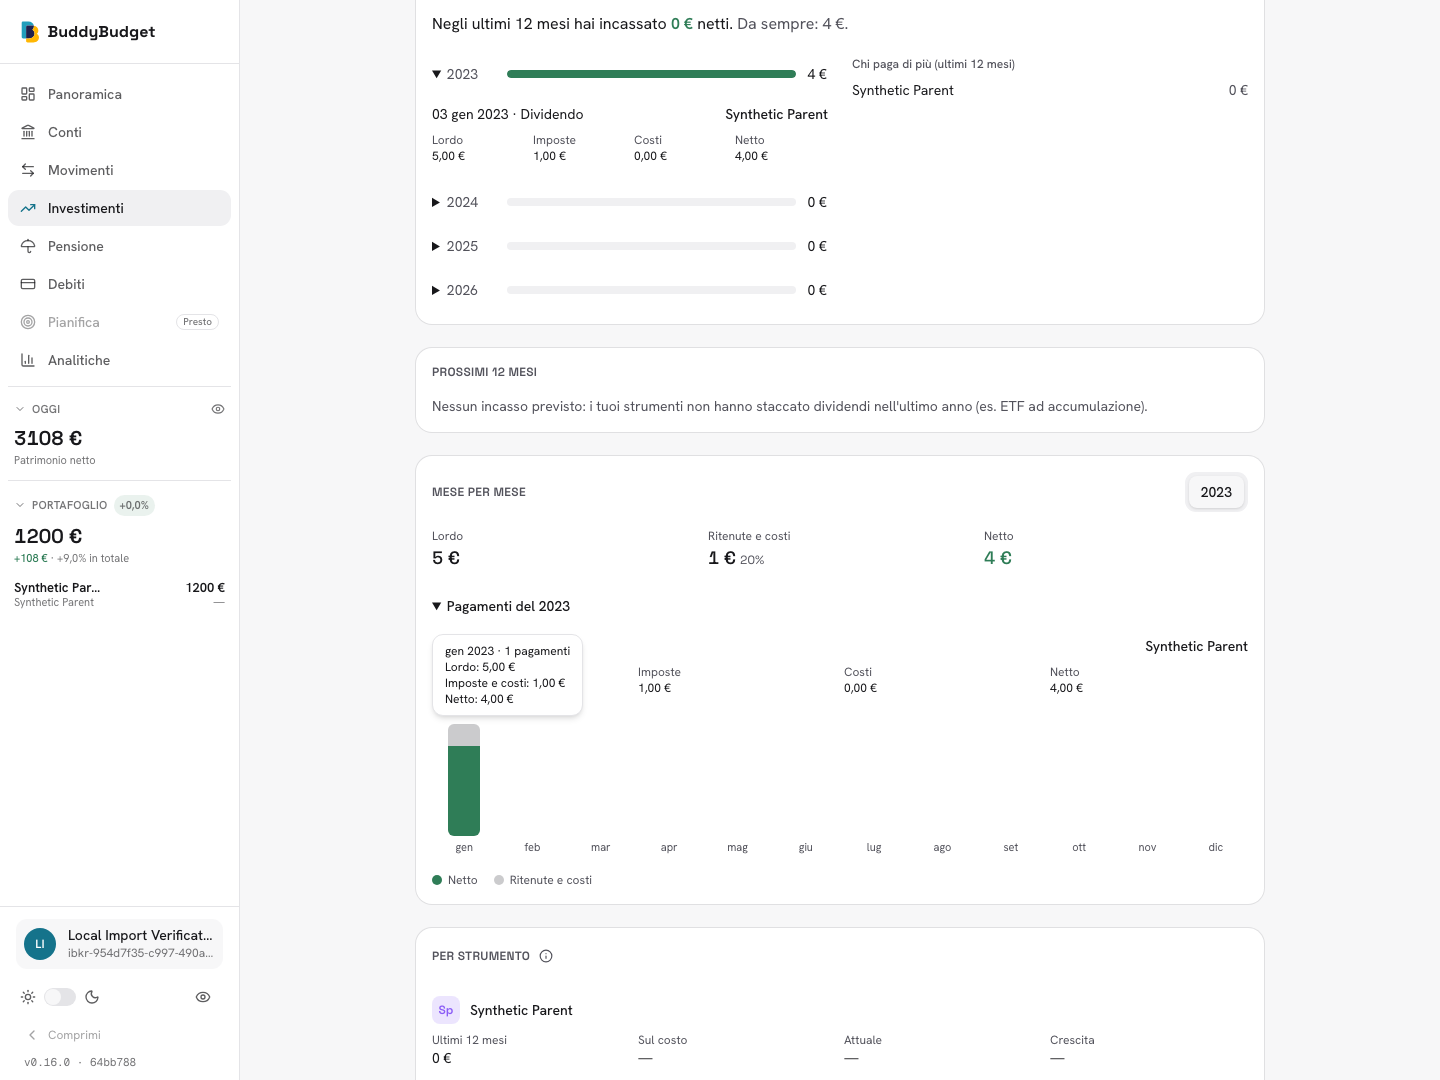
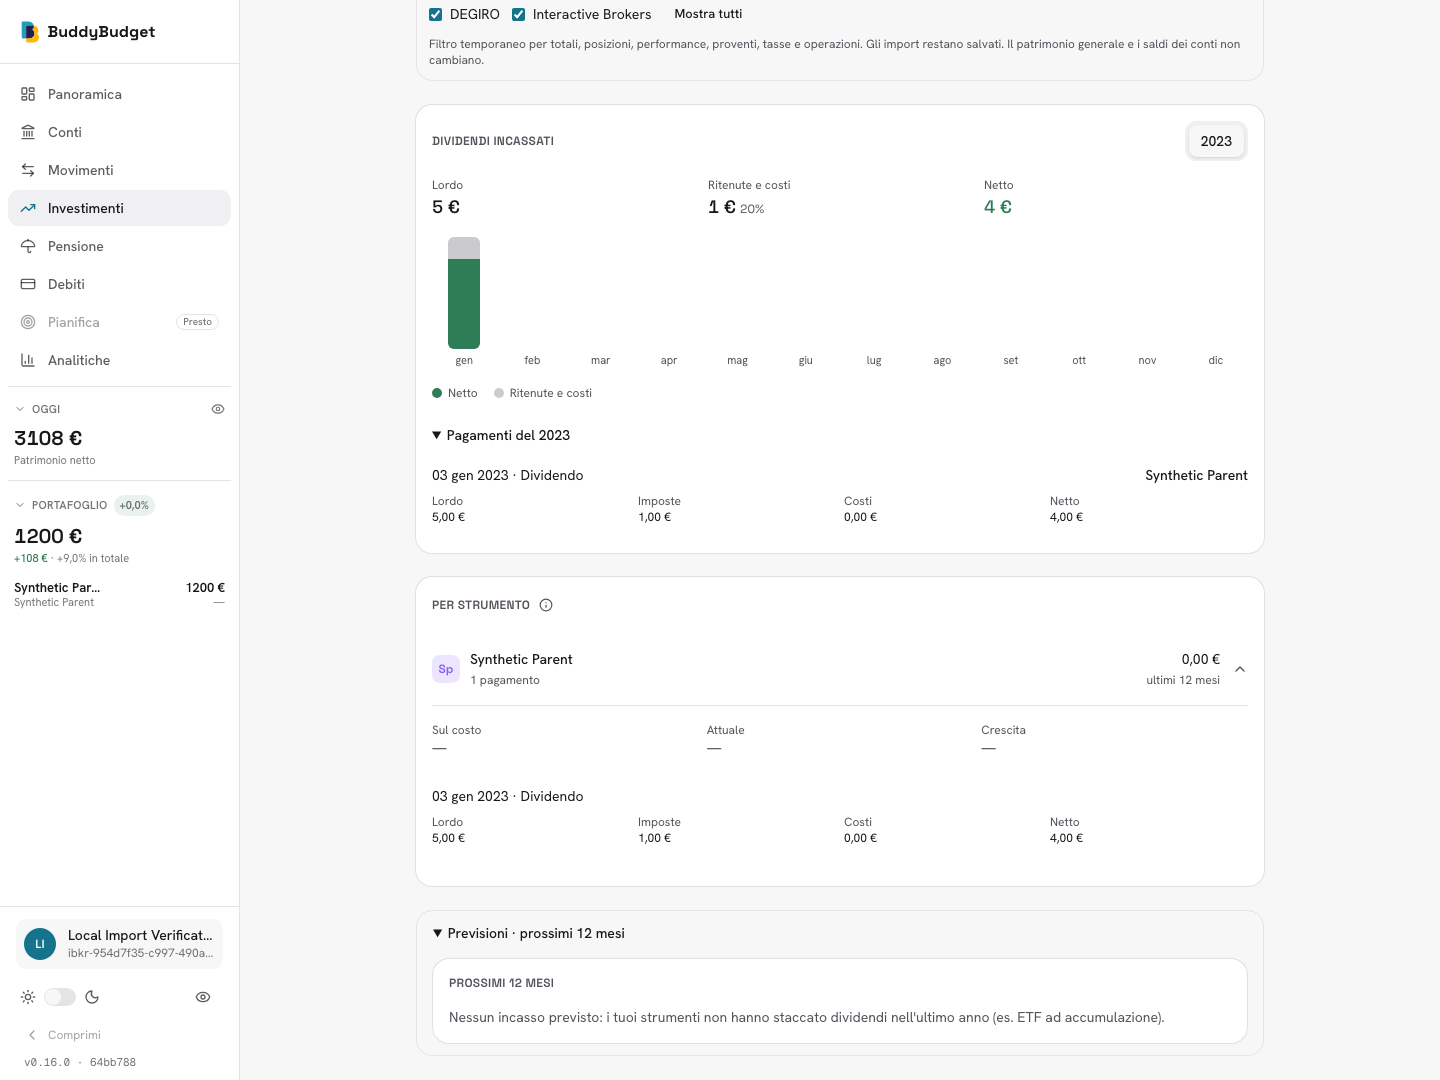
fix: simplify dividend page and remove redundant overview

diff --git a/components/domain/investments/income/income-instruments-card.tsx b/components/domain/investments/income/income-instruments-card.tsx
@@ -5,6 +5,7 @@
  * oggi), crescita del dividendo per quota negli ultimi anni. Per le obbligazioni, tasso e scadenza delle cedole.
  */
 
+import { ChevronDown } from "lucide-react";
 import { IncomePayments } from "./income-payments";
 import type { IncomePayment } from "@/lib/investments/income";
 import { track } from "@/lib/analytics";
@@ -52,28 +53,32 @@ export function IncomeInstrumentsCard({ rows, payments, instrumentsById, currenc
             const instrument = instrumentsById.get(row.instrumentId);
             if (!instrument) return null;
             const isBond = instrument.type === "obbligazione";
+            const instrumentPayments = payments.filter((payment) => payment.instrumentId === row.instrumentId);
             return (
-              <li key={row.instrumentId} className="flex flex-col gap-2 py-3">
-                <div className="flex items-center justify-between gap-3">
-                  <span className="flex min-w-0 items-center gap-2.5">
-                    <InstrumentIcon type={instrument.type} name={instrument.name} instrumentId={instrument.id} size="sm" />
-                    <span className="truncate text-sm font-medium text-foreground">{instrument.name}</span>
-                  </span>
-                  {isBond ? (
-                    <Button variant="outline" size="sm" onClick={() => onEditCoupons(instrument)}>
-                      {row.hasCouponTerms ? "Cedole" : "Inserisci cedole"}
-                    </Button>
-                  ) : null}
-                </div>
-                <dl className="grid grid-cols-2 gap-2 text-sm sm:grid-cols-4">
-                  <Metric label="Ultimi 12 mesi" value={formatCurrency(row.trailingNet, currency, { maximumFractionDigits: 0 })} />
-                  <Metric label="Sul costo" value={row.yieldOnCost !== null && row.trailingNet > 0 ? formatPct(row.yieldOnCost) : "—"} />
-                  <Metric label="Attuale" value={row.currentYield !== null && row.forecastGross > 0 ? formatPct(row.currentYield) : "—"} />
-                  <Metric label="Crescita" value={row.growth ? `${formatSignedPct(row.growth.rate)}/anno` : "—"} />
-                </dl>
-                <details onToggle={(event) => { if (event.currentTarget.open) track("investment_dividends_details_opened", { source: "instrument" }); }}>
-                  <summary className="cursor-pointer py-2 text-sm font-medium">Pagamenti di {instrument.name} ({payments.filter((payment) => payment.instrumentId === row.instrumentId).length})</summary>
-                  <IncomePayments payments={payments.filter((payment) => payment.instrumentId === row.instrumentId)} currency={currency} />
+              <li key={row.instrumentId}>
+                <details className="group" onToggle={(event) => { if (event.currentTarget.open) track("investment_dividends_details_opened", { source: "instrument" }); }}>
+                  <summary className="flex cursor-pointer list-none items-center justify-between gap-3 rounded-md py-4 focus-visible:outline-2">
+                    <span className="flex min-w-0 items-center gap-2.5">
+                      <InstrumentIcon type={instrument.type} name={instrument.name} instrumentId={instrument.id} size="sm" />
+                      <span className="min-w-0">
+                        <span className="block truncate text-sm font-medium">{instrument.name}</span>
+                        <span className="text-xs text-muted-foreground">{instrumentPayments.length} {instrumentPayments.length === 1 ? "pagamento" : "pagamenti"}</span>
+                      </span>
+                    </span>
+                    <span className="flex shrink-0 items-center gap-3">
+                      <span className="text-right"><span className="block text-sm tabular-nums">{formatCurrency(row.trailingNet, currency)}</span><span className="text-xs text-muted-foreground">ultimi 12 mesi</span></span>
+                      <ChevronDown className="size-4 text-muted-foreground transition-transform group-open:rotate-180" aria-hidden="true" />
+                    </span>
+                  </summary>
+                  <div className="space-y-4 border-t pb-3 pt-4">
+                    <dl className="grid grid-cols-3 gap-2 text-sm">
+                      <Metric label="Sul costo" value={row.yieldOnCost !== null && row.trailingNet > 0 ? formatPct(row.yieldOnCost) : "—"} />
+                      <Metric label="Attuale" value={row.currentYield !== null && row.forecastGross > 0 ? formatPct(row.currentYield) : "—"} />
+                      <Metric label="Crescita" value={row.growth ? `${formatSignedPct(row.growth.rate)}/anno` : "—"} />
+                    </dl>
+                    {isBond ? <Button variant="outline" size="sm" onClick={() => onEditCoupons(instrument)}>{row.hasCouponTerms ? "Cedole" : "Inserisci cedole"}</Button> : null}
+                    <IncomePayments payments={instrumentPayments} currency={currency} />
+                  </div>
                 </details>
               </li>
             );

diff --git a/app/(app)/investimenti/proventi/page.tsx b/app/(app)/investimenti/proventi/page.tsx
@@ -10,7 +10,6 @@ import { useFilteredInvestmentsOverview } from "@/lib/queries/investments-view";
 import { toast } from "sonner";
 import {
   IncomeForecastCard,
-  IncomeHistoryCard,
   IncomeInstrumentsCard,
   IncomeMonthsCard,
   InstrumentSettingsDialog,
@@ -98,24 +97,34 @@ export default function DividendiPage() {
           Scarico lo storico dei dividendi di {pending === 1 ? "uno strumento" : `${pending} strumenti`}…
         </p>
       ) : null}
-      {view.history.count > 0 ? <IncomeHistoryCard income={view.history} instrumentsById={view.instrumentsById} currency={currency} /> : null}
-      {view.missing.length > 0 ? (
-        <MissingIncomeCard
-          missing={view.missing}
-          instrumentsById={view.instrumentsById}
-          currency={currency}
-          onRegister={register}
-          onDismiss={(item) => ignore([item])}
-          onDismissOld={ignore}
-          dismissingKey={dismissingKey}
-          todayKey={view.todayKey}
-        />
-      ) : null}
-      <IncomeForecastCard forecast={view.forecast} instrumentsById={view.instrumentsById} currency={currency} onEditCoupons={setCouponsFor} />
       {view.byMonth.length > 0 ? <IncomeMonthsCard payments={view.history.payments} instrumentsById={view.instrumentsById} years={view.byMonth} currency={currency} /> : null}
       {view.byInstrument.length > 0 ? (
         <IncomeInstrumentsCard payments={view.history.payments} rows={view.byInstrument} instrumentsById={view.instrumentsById} currency={currency} onEditCoupons={setCouponsFor} />
       ) : null}
+      {view.byMonth.length === 0 ? <p className="rounded-xl border border-dashed p-6 text-sm text-muted-foreground">Nessun dividendo o cedola registrato.</p> : null}
+      {view.missing.length > 0 ? (
+        <details className="rounded-xl border px-4 py-3">
+          <summary className="cursor-pointer text-sm font-medium">Da registrare ({view.missing.length})</summary>
+          <div className="pt-4">
+            <MissingIncomeCard
+              missing={view.missing}
+              instrumentsById={view.instrumentsById}
+              currency={currency}
+              onRegister={register}
+              onDismiss={(item) => ignore([item])}
+              onDismissOld={ignore}
+              dismissingKey={dismissingKey}
+              todayKey={view.todayKey}
+            />
+          </div>
+        </details>
+      ) : null}
+      <details className="rounded-xl border px-4 py-3">
+        <summary className="cursor-pointer text-sm font-medium">Previsioni · prossimi 12 mesi</summary>
+        <div className="pt-4">
+          <IncomeForecastCard forecast={view.forecast} instrumentsById={view.instrumentsById} currency={currency} onEditCoupons={setCouponsFor} />
+        </div>
+      </details>
       <InstrumentSettingsDialog
         instrument={couponsFor}
         setting={couponsFor ? overview.data?.instrumentSettings.find((s) => s.instrumentId === couponsFor.id) : undefined}

diff --git a/components/domain/investments/income/income-months-card.tsx b/components/domain/investments/income/income-months-card.tsx
@@ -32,7 +32,7 @@ export function IncomeMonthsCard({ years, payments, instrumentsById, currency }:
   return (
     <Card>
       <CardHeader className="flex flex-row flex-wrap items-center justify-between gap-2">
-        <CardTitle className="text-xs font-semibold uppercase tracking-wide text-muted-foreground">Mese per mese</CardTitle>
+        <CardTitle className="text-xs font-semibold uppercase tracking-wide text-muted-foreground">Dividendi incassati</CardTitle>
         {options.length > 0 ? <SegmentedControl options={options} value={String(year.year)} onChange={(value) => { setSelected(value); setExpanded(true); track("investment_dividends_details_opened", { source: "year" }); }} className="flex-wrap max-w-full" ariaLabel="Anno" /> : null}
       </CardHeader>
       <CardContent className="flex flex-col gap-4">
@@ -53,10 +53,6 @@ export function IncomeMonthsCard({ years, payments, instrumentsById, currency }:
             <dd className="font-heading text-lg font-medium tabular-nums text-pos">{format(year.net)}</dd>
           </div>
         </dl>
-        <details open={expanded} onToggle={(event) => setExpanded(event.currentTarget.open)}>
-          <summary className="cursor-pointer py-2 text-sm font-medium">Pagamenti del {year.year}</summary>
-          <IncomePayments payments={payments.filter((payment) => payment.date.startsWith(String(year.year)))} currency={currency} instrumentsById={instrumentsById} />
-        </details>
         <MonthBars
           ariaLabel={`Incassi del ${year.year} per mese`}
           bars={year.months.map((m) => ({
@@ -75,6 +71,10 @@ export function IncomeMonthsCard({ years, payments, instrumentsById, currency }:
             <span className="size-2.5 rounded-sm bg-muted-foreground/30" aria-hidden="true" /> Ritenute e costi
           </span>
         </p>
+        <details open={expanded} onToggle={(event) => setExpanded(event.currentTarget.open)}>
+          <summary className="cursor-pointer py-2 text-sm font-medium">Pagamenti del {year.year}</summary>
+          <IncomePayments payments={payments.filter((payment) => payment.date.startsWith(String(year.year)))} currency={currency} instrumentsById={instrumentsById} />
+        </details>
       </CardContent>
     </Card>
   );

diff --git a/docs/decisioni/2026-10-06-dettaglio-dividendi.md b/docs/decisioni/2026-10-06-dettaglio-dividendi.md
@@ -7,3 +7,6 @@
 - Barre mensili con dettagli al passaggio del mouse e al focus/touch. Le previsioni rimangono separate dagli incassi registrati.
 - Evento Umami `investment_dividends_details_opened` con sola origine categorica; nessuna nuova API o dipendenza esterna.
 - Catalogo e schermate landing aggiornati; verifiche su valute, rettifiche, pagamenti futuri e strumenti venduti.
+
+- Semplificazione richiesta: rimossa dalla tab la card riepilogativa «Dividendi e cedole» con confronto annuale e classifica. Grafico mensile in apertura, pagamenti annuali sotto il grafico, righe strumenti compatte ed espandibili. Proposte da registrare e previsioni raccolte in sezioni chiuse inizialmente.
+- Questa semplificazione riguarda solo la tab Dividendi, non presente tra gli screenshot della landing; riepilogo nel portafoglio e catalogo funzionale invariati.
